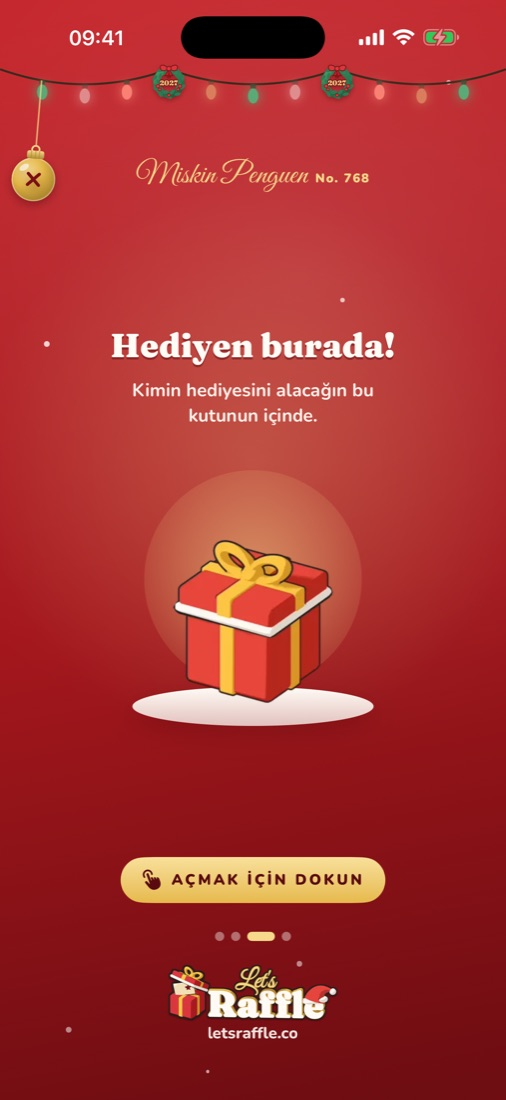
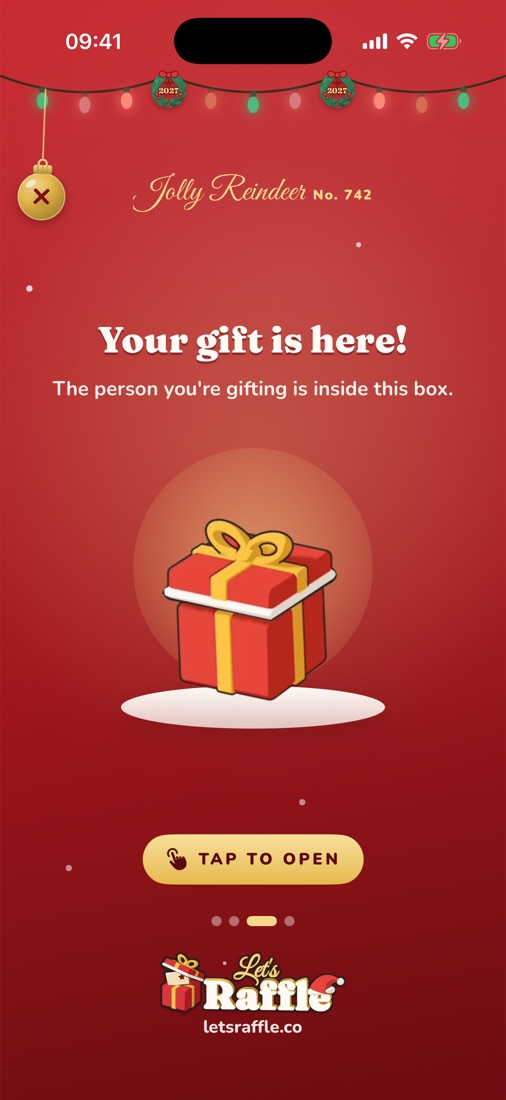
English copy fixes and English README screenshots

diff --git a/LetsRaffle/Localization/Strings+Design.swift b/LetsRaffle/Localization/Strings+Design.swift
@@ -98,7 +98,8 @@ extension Strings {
     var emptyManual: String { l("Henüz kimse yok. İlk katılımcıyı ekle!", "Nobody yet. Add the first participant!") }
     var tabHome: String { l("Ana Sayfa", "Home") }
     var tabEvents: String { l("Etkinliklerim", "My events") }
-    var eventsSub: String { l("Kurdukların ve katıldıkların tek yerde.", "Everything you created and joined, in one place.") }
+    var codePlaceholder: String { l("miskin-penguen-53", "jolly-reindeer-742") }
+    var eventsSub: String { l("Kurdukların ve katıldıkların tek yerde.", "Created and joined, in one place.") }
     var eventsCreated: String { l("Oluşturduklarım", "Created") }
     var eventsJoined: String { l("Katıldıklarım", "Joined") }
     var eventsEmptyCreated: String { l("Henüz çekiliş oluşturmadın.", "You haven't created a draw yet.") }

diff --git a/LetsRaffle/Features/Join/JoinCode.swift b/LetsRaffle/Features/Join/JoinCode.swift
@@ -29,7 +29,7 @@ struct JoinCodeCard: View {
                 .font(.fieldLabel)
                 .foregroundStyle(Color(light: 0x5B3A3A, dark: 0xE8D2C8))
                 .padding(.top, 4)
-            TextField("", text: $code, prompt: Text("miskin-penguen-53").foregroundStyle(Palette.ter))
+            TextField("", text: $code, prompt: Text(t.codePlaceholder).foregroundStyle(Palette.ter))
                 .font(AppFont.display(22, black: false))
                 .multilineTextAlignment(.center)
                 .foregroundStyle(Palette.brandText)

diff --git a/LetsRaffle/Localization/Strings+EN.swift b/LetsRaffle/Localization/Strings+EN.swift
@@ -109,7 +109,7 @@ extension Strings {
         joinTitle: "Join the Draw",
         joinSub: "Enter the invite code or scan a QR.",
         enterCode: "Invite code",
-        enterCodeSub: "The code shared by the organizer (e.g. miskin-penguen-53)",
+        enterCodeSub: "The code shared by the organizer (e.g. jolly-reindeer-742)",
         scanQr: "Scan QR Code",
         deepLinkHint: "Tapping an invite link skips this step and opens the form directly.",
         hostedBy: "Hosted by",
